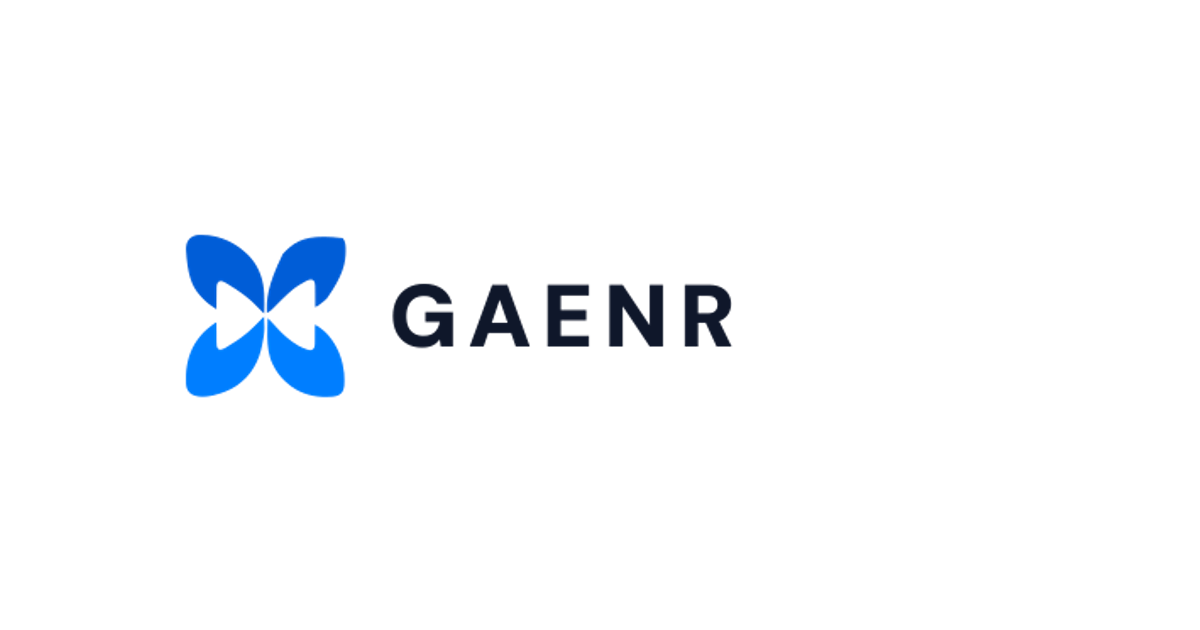
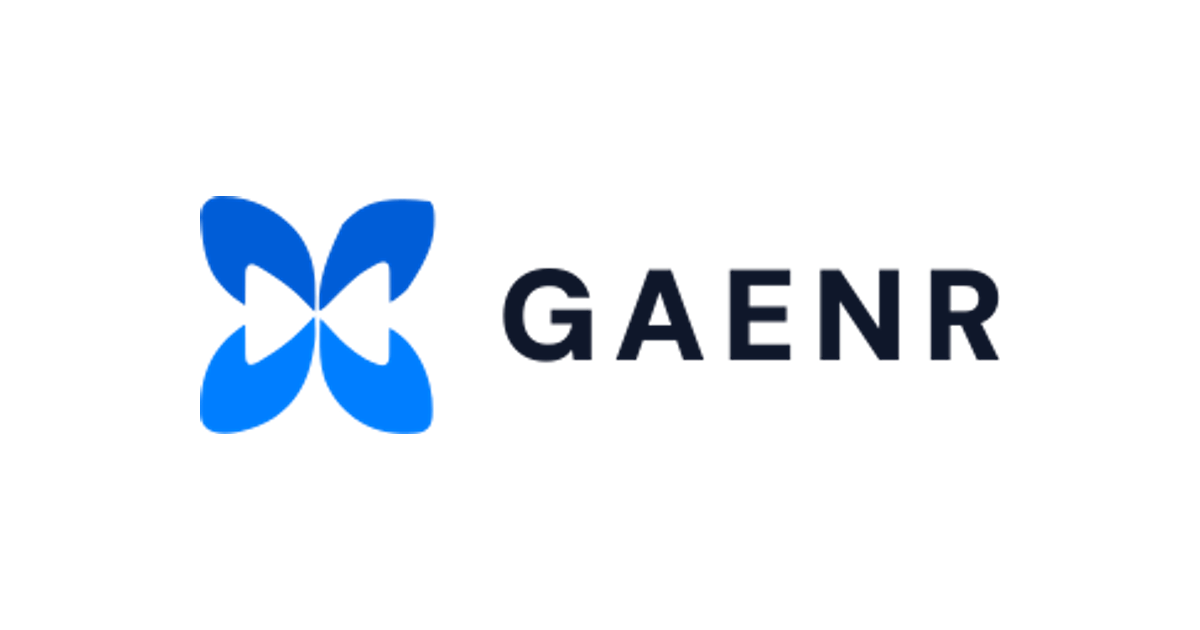
fix(og-image): trim transparent right padding and achieve pixel-perfect optical and geometric centering
- Trim 182px invisible whitespace on right side of source gaenr-logo.png
- Center exact visible bounding box (800x238) on 1200x630 canvas
- Equalized horizontal margins (200px left / 200px right) and vertical margins (196px top / 196px bottom)
- Update cache buster to ?v=4 in index.html and seo.ts

Changed region(s): [[0.1542, 0.3016, 0.8325, 0.6937]]

diff --git a/index.html b/index.html
@@ -17,8 +17,8 @@
     <meta property="og:title" content="Gaenr - Are You #ReadyToChange?" />
     <meta property="og:description" content="Gaenr connects businesses and clients worldwide with verified student talent and digital experts with zero platform fees." />
     <meta property="og:type" content="website" />
-    <meta property="og:image" content="https://gaenr.com/images/gaenr-logo-card.png?v=3" />
-    <meta property="og:image:secure_url" content="https://gaenr.com/images/gaenr-logo-card.png?v=3" />
+    <meta property="og:image" content="https://gaenr.com/images/gaenr-logo-card.png?v=4" />
+    <meta property="og:image:secure_url" content="https://gaenr.com/images/gaenr-logo-card.png?v=4" />
     <meta property="og:image:width" content="1200" />
     <meta property="og:image:height" content="630" />
     <meta property="og:image:alt" content="Gaenr - Are You #ReadyToChange?" />
@@ -26,7 +26,7 @@
     <meta name="twitter:card" content="summary_large_image" />
     <meta name="twitter:title" content="Gaenr - Are You #ReadyToChange?" />
     <meta name="twitter:description" content="Gaenr connects businesses and clients worldwide with verified student talent and digital experts with zero platform fees." />
-    <meta name="twitter:image" content="https://gaenr.com/images/gaenr-logo-card.png?v=3" />
+    <meta name="twitter:image" content="https://gaenr.com/images/gaenr-logo-card.png?v=4" />
     <meta name="twitter:image:alt" content="Gaenr - Are You #ReadyToChange?" />
     <script type="application/ld+json">
       {

diff --git a/src/utils/seo.ts b/src/utils/seo.ts
@@ -13,7 +13,7 @@ export interface PageMeta {
 
 const SITE_NAME = 'Gaenr';
 const BASE_URL = 'https://gaenr.com';
-const DEFAULT_OG_IMAGE = 'https://gaenr.com/images/gaenr-logo-card.png?v=3';
+const DEFAULT_OG_IMAGE = 'https://gaenr.com/images/gaenr-logo-card.png?v=4';
 
 const SERVICE_META: Record<string, { title: string; description: string }> = {
   'graphics-design': {
